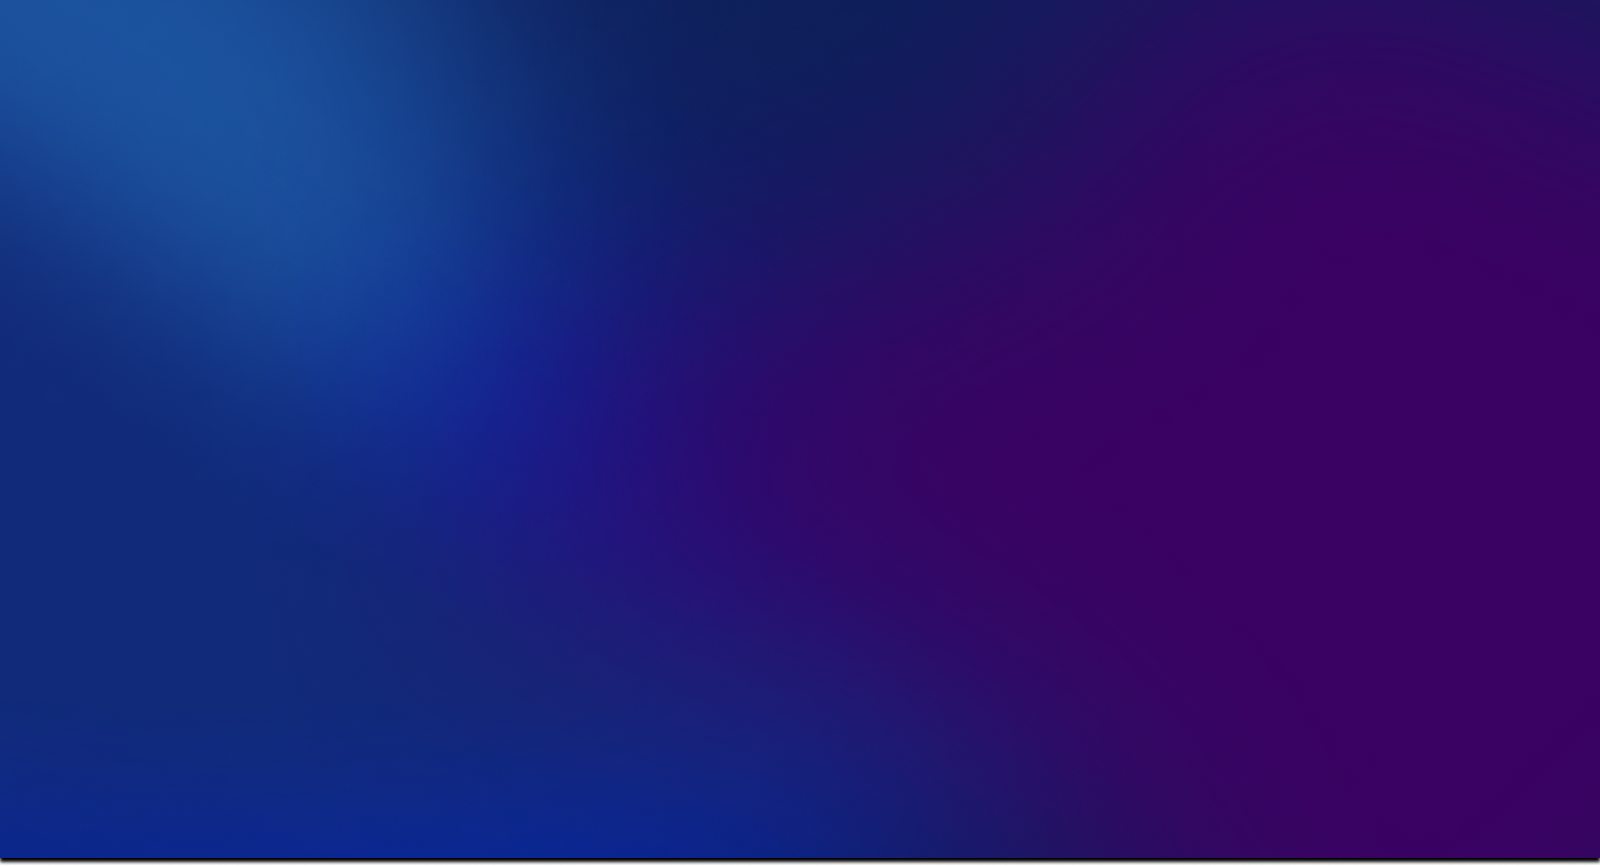
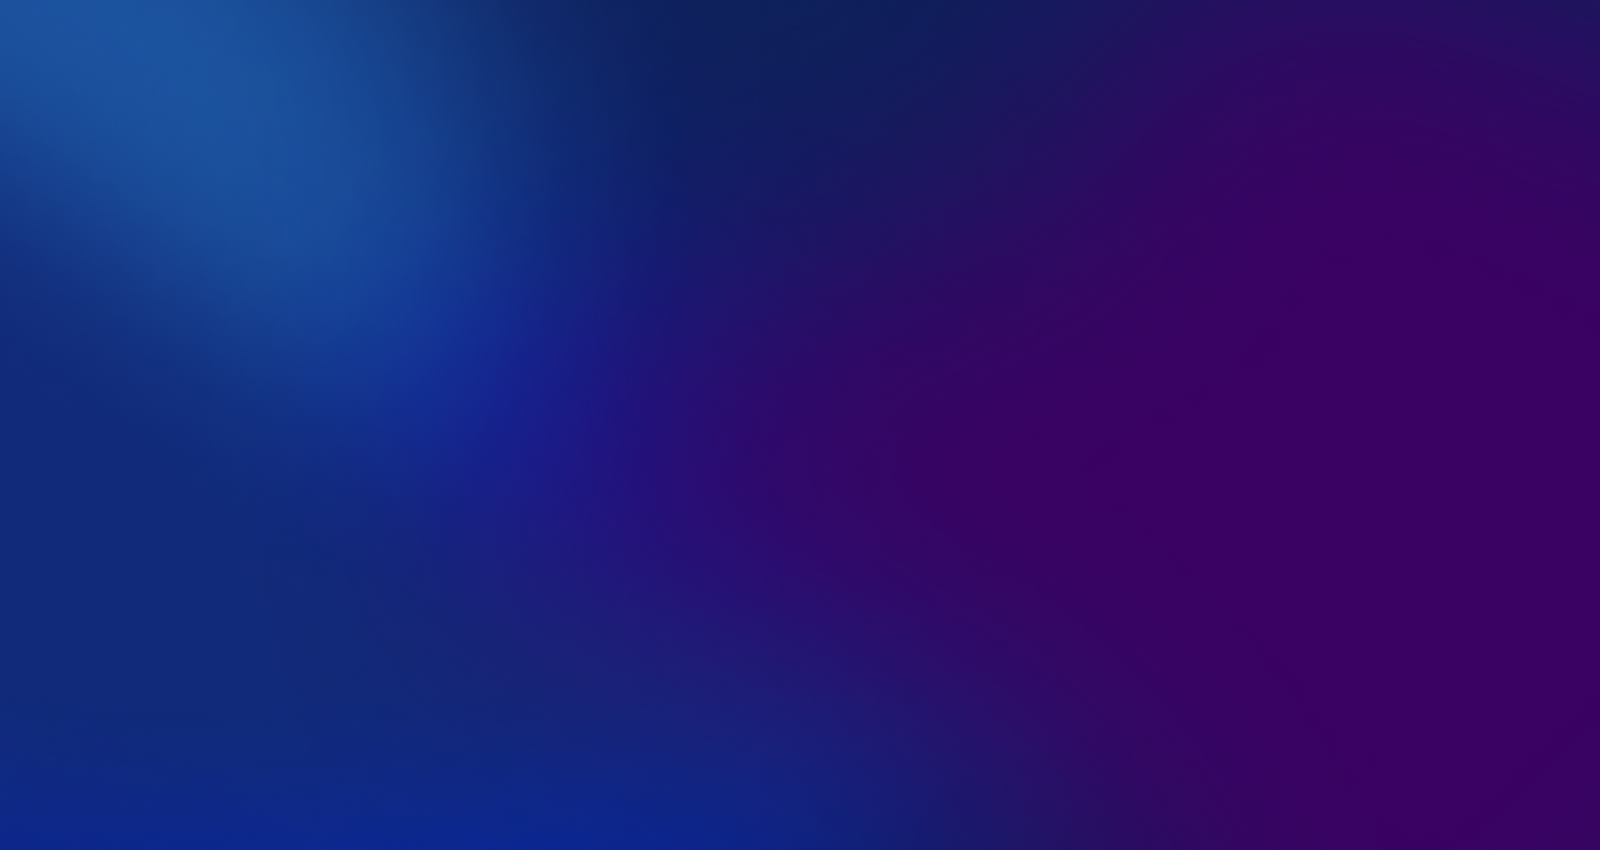
Changes

Changed region(s): [[0.0, 0.9788, 1.0, 1.0]]

diff --git a/src/components/Team.js b/src/components/Team.js
@@ -1,23 +1,210 @@
 import Footer from "./Footer";
 import Header from "./Header";
 import Background from "./../assets/sec_1_background.png";
+import A1 from "./../assets/ic_1.png";
+import A2 from "./../assets/ic_2.png";
+import A3 from "./../assets/ic_3.png";
 
 export default function Team() {
+  const details_data = [
+    {
+      id: 1,
+      icon: A1,
+      title: "Utilization",
+      description:
+        "Aira Protocol allows the utilization of traditional interest-bearing assets, asset tokens & LP share tokens to mint an over-collateralized stable coin.",
+    },
+    {
+      id: 2,
+      icon: A2,
+      title: "Liquidity",
+      description:
+        "As Dan Elitzer explained in this post on super- fuid collateral - “If assets can be allocated for multiple  purposes  simultaneously, we  should see more liquidity, lower cost of borrowing, and more effective allocation of capital.”",
+    },
+    {
+      id: 3,
+      icon: A3,
+      title: "Efficiency",
+      description:
+        "With these accrued gains in effciency, we aim to offer sector leading borrowing rates and staking yields to Liquidity providers.",
+    },
+    {
+      id: 4,
+      icon: A1,
+      title: "Utilization",
+      description:
+        "Aira Protocol allows the utilization of traditional interest-bearing assets, asset tokens & LP share tokens to mint an over-collateralized stable coin.",
+    },
+    {
+      id: 5,
+      icon: A2,
+      title: "Liquidity",
+      description:
+        "As Dan Elitzer explained in this post on super- fuid collateral - “If assets can be allocated for multiple  purposes  simultaneously, we  should see more liquidity, lower cost of borrowing, and more effective allocation of capital.”",
+    },
+    {
+      id: 6,
+      icon: A3,
+      title: "Efficiency",
+      description:
+        "With these accrued gains in effciency, we aim to offer sector leading borrowing rates and staking yields to Liquidity providers.",
+    },
+  ];
   return (
     <>
+      <Header />
       <section
-        className="sec_1"
+        className="sec_1 "
         style={{
           backgroundImage: `url(${Background})`,
           width: "auto",
           height: "auto",
           backgroundRepeat: "no-repeat",
           backgroundSize: "cover",
+          padding: "8%",
+          boxShadow: "0px",
         }}
       >
-        <Header />
+        <div className="">
+          <div
+            style={{
+              justifyContent: "left",
+              textAlign: "start",
+            }}
+          >
+            <p
+              style={{
+                fontSize: "64px",
+                fontWeight: "800",
+                fontFamily: "PP Neue Machina",
+                color: "white",
+                fontStyle: "normal",
+              }}
+            >
+              Meet the team
+            </p>
+            <p
+              style={{
+                fontSize: "24px",
+                fontWeight: "500",
+                color: "white",
+              }}
+            >
+              We are a family of entrepreneurs, creators, builders and experts.
+              We have a<br></br> combined experience of 20 years of experience
+              in blah, blah, blah, and more.
+            </p>
+          </div>
+        </div>
+
+        {/* Grid */}
+        <div
+          className="grid grid-cols-3 mt-40 gap-40 grid-rows-2"
+          style={{
+            justifyContent: "center",
+            textAlign: "center",
+            alignItems: "center",
+          }}
+        >
+          {details_data.map((item) => {
+            return (
+              <div
+                key={item.id}
+                className="justify-center align-middle text-center"
+              >
+                <div
+                  style={{
+                    justifyContent: "center",
+                    textAlign: "center",
+                    alignItems: "center",
+                    marginLeft: "55%",
+                    transform: "translateX(-50%)",
+                  }}
+                >
+                  <img src={item.icon} />
+                </div>
+                <p
+                  className="mt-5"
+                  style={{
+                    fontSize: "24px",
+                    color: "white",
+                    fontFamily: "Inter",
+                    fontWeight: "700",
+                  }}
+                >
+                  {item.title}
+                </p>
+                <p
+                  className="mt-5"
+                  style={{
+                    fontFamily: "Inter",
+                    fontSize: "16px",
+                    fontWeight: "400",
+                    color: "white",
+                  }}
+                >
+                  {item.description}
+                </p>
+              </div>
+            );
+          })}
+        </div>
+
+        <div
+          style={{
+            width: "60%",
+            height: "auto",
+            transform: "translateX(-50%)",
+            marginLeft: "50%",
+            border: "1px solid white",
+            alignItems: "center",
+          }}
+          className="mt-20 backdrop-blur-xl bg-white/30 rounded-xl flex justify-between p-8"
+        >
+          <div className="jus justify-start text-start">
+            <p
+              style={{
+                fontSize: "48px",
+                color: "white",
+                fontFamily: "PP Neue Machina",
+              }}
+            >
+              Get integrated.
+            </p>
+            <p
+              style={{
+                fontSize: "20px",
+                fontWeight: "500",
+                color: "white",
+              }}
+            >
+              Easy integration, frictionless access, and safeness.
+            </p>
+          </div>
+          <button
+            style={{
+              width: "232px",
+              height: "60px",
+              borderRadius: "32px",
+              background: "#FAFAFA",
+              justifyContent: "center",
+              textAlign: "center",
+              alignItems: "center",
+            }}
+          >
+            Get Docs
+          </button>
+        </div>
+
         <Footer />
       </section>
+      <section
+        style={{
+          background: "#0A2790",
+          height: "10vh",
+          width: "100%",
+        }}
+      >;</section>
     </>
   );
 }
